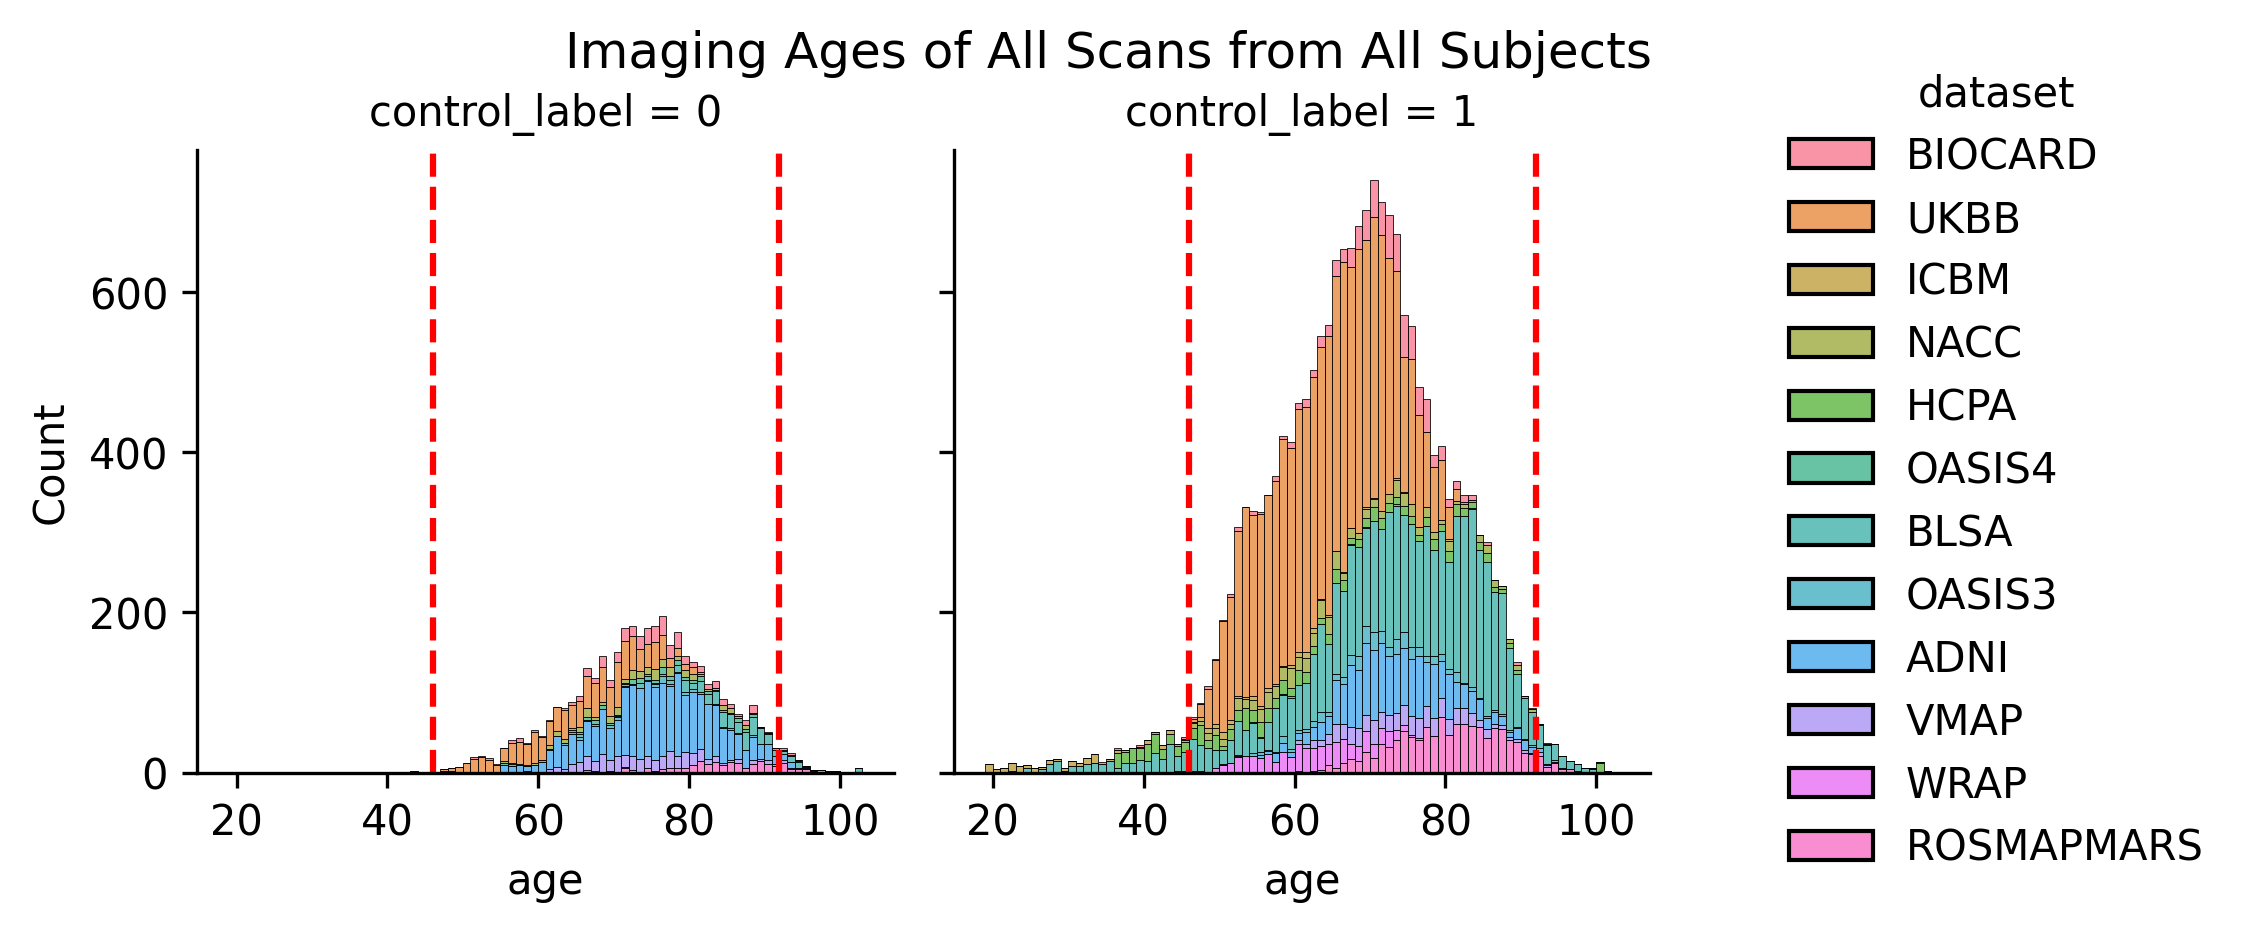
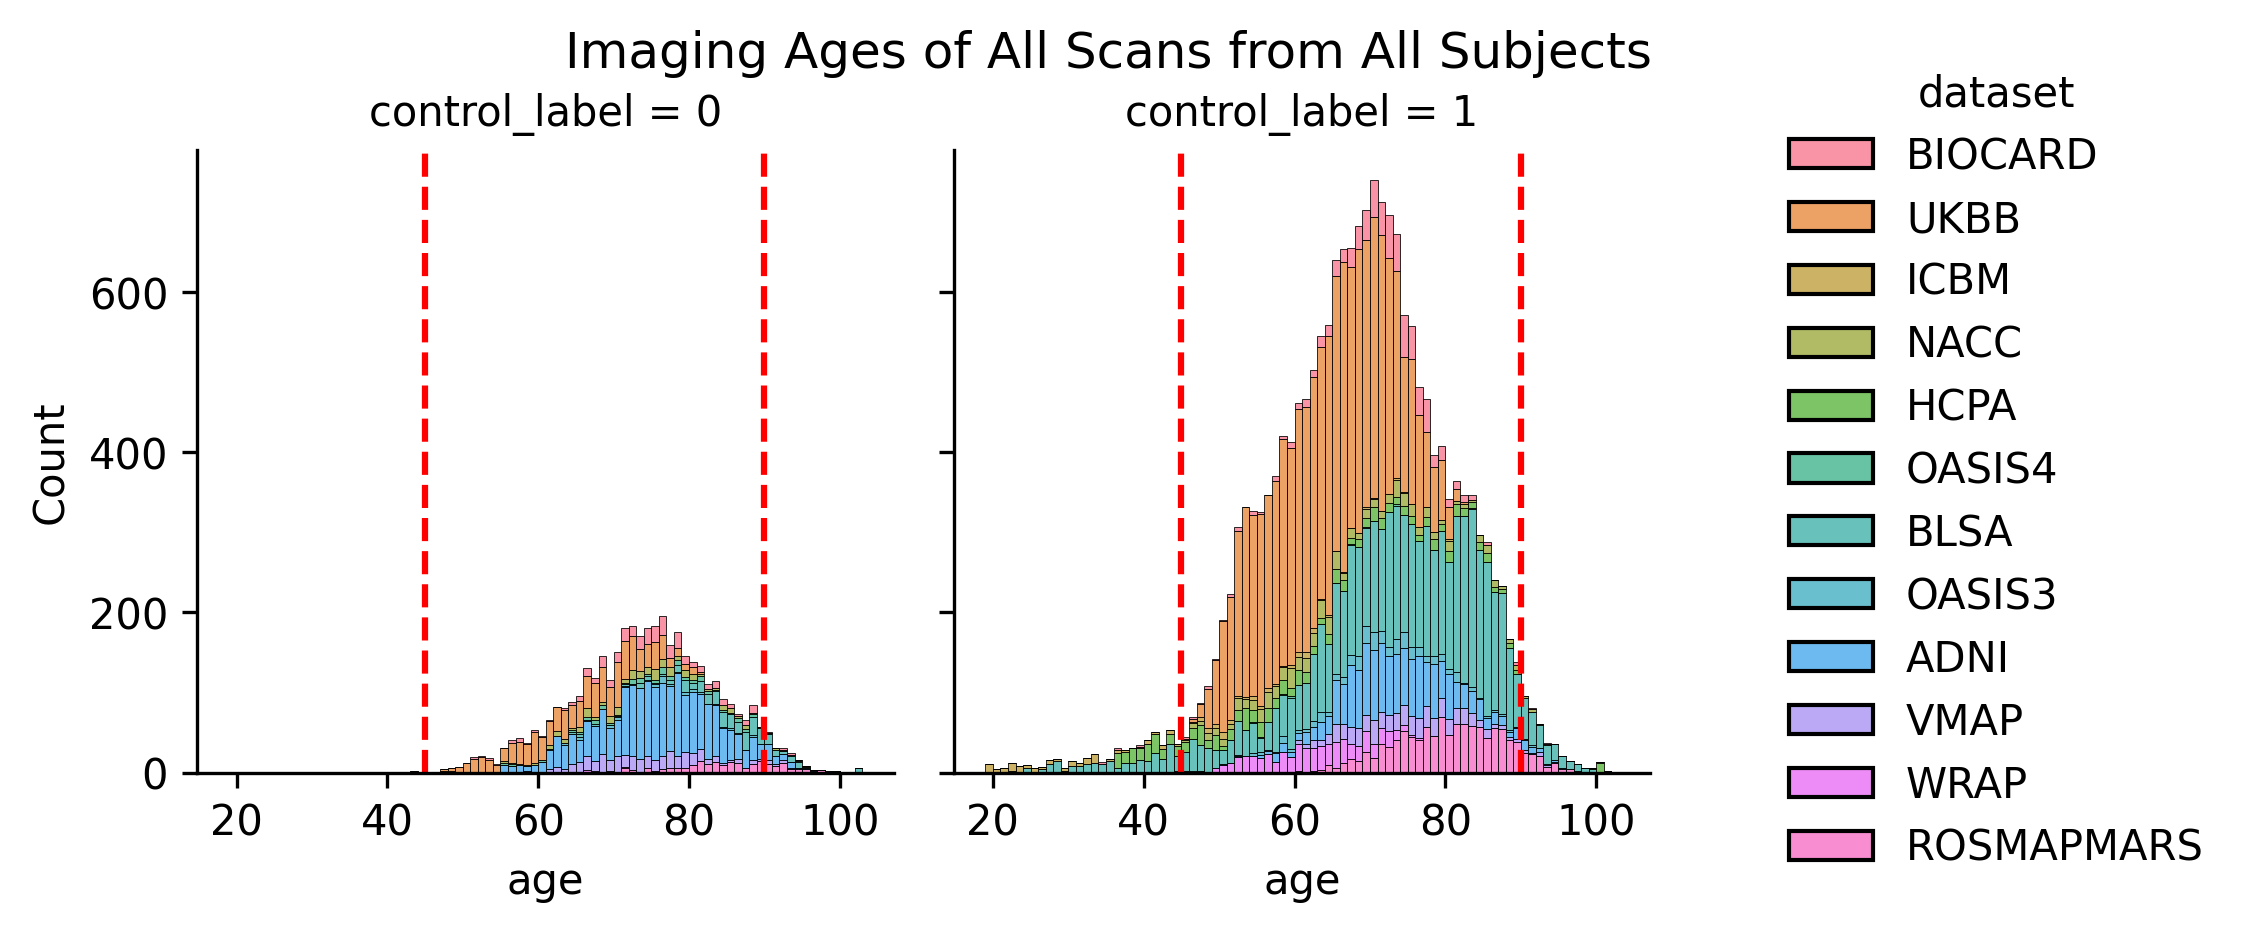
decided age range, performed data splitting (train, test)

Changed region(s): [[0.656, 0.1539, 0.6872, 0.8312], [0.4998, 0.1539, 0.531, 0.8312], [0.1874, 0.1539, 0.2187, 0.8312]]

diff --git a/data/dataset_splitting/scripts/train_test_split.py b/data/dataset_splitting/scripts/train_test_split.py
@@ -1,0 +1,132 @@
+"""
+We've done QA and filtered out unwanted scans from the databank_dti.
+And we've decided the age range we want the model to focus on.
+Now, we split the filtered databank_dti into train and test sets.
+We also split the train set into five folds for cross validation.
+We store the data on the GDPR server.
+
+logic:
+1. We have a pool of scans that have passed QAs
+2. pull subjects for test sets out of the pool
+    - all cognitively impaired subjects will be used for testing
+    - the entire ICBM dataset will be used for testing
+    - For the rest of the datasets, pull out n subjects from each dataset,
+      where n depends on the dataset (whether further analysis is possible). 
+3. the rest of the subjects will be used for training
+4. there must be scan-rescan data available in testing
+5. there must be no overlap subjects between train and test sets
+6. combining the train and test sets will lead to the original #rows
+
+Author: Chenyu Gao
+Date: Dec 7, 2023
+"""
+
+import subprocess
+import pandas as pd
+import numpy as np
+from tqdm import tqdm
+from pathlib import Path
+from braid.utls import summarize_dataset
+
+AGEMIN = 45
+AGEMAX = 90
+SEED = 1997
+
+path_databank_dti = Path('/nfs/masi/gaoc11/GDPR/masi/gaoc11/BRAID/data/databank_dti')  # all data including preprocessing
+path_braid_data = Path('/nfs/masi/gaoc11/GDPR/masi/gaoc11/BRAID/data/braid_dataset')  # only preprocessed FA, MD for training and testing
+
+# Scan data remained after QAs
+df_qa = pd.read_csv('/nfs/masi/gaoc11/GDPR/masi/gaoc11/BRAID/data/quality_assurance/databank_dti_after_pngqa_after_adspqa.csv')
+df_qa = df_qa.loc[df_qa['age'].notnull(), ]
+df_qa['dataset_subject'] = df_qa['dataset'] + '_' + df_qa['subject']
+df_pool = df_qa.copy()
+
+# Assign ICBM and all cognitively impaired subjects to test set
+subjects = df_pool.loc[(df_pool['dataset']=='ICBM')|(df_pool['control_label']==0), 'dataset_subject'].unique()
+print(f'Assigning {subjects.shape[0]} subjects (ICBM and all cognitively impaired) to test set...')
+df_test = df_pool.loc[df_pool['dataset_subject'].isin(subjects), ].copy()
+df_pool.drop(df_pool.loc[df_pool['dataset_subject'].isin(subjects), ].index, inplace=True)
+print(f'Removed these {subjects.shape[0]} subjects from the pool. #Remaining scans: {df_pool.shape[0]}\n')
+
+# Assign n subjects (whose ages fall within the chosen range) from each dataset to test set
+num_subjects_test = {
+    'BIOCARD': 50,
+    'UKBB': 50,
+    'NACC': 50,
+    'HCPA': 50,
+    'OASIS4': 5,
+    'BLSA': 100,  # for scan-rescan experiment
+    'OASIS3': 100,  # for cognitive performance score
+    'ADNI': 300,  # for cognitive performance score
+    'VMAP': 50,
+    'WRAP': 50,
+    'ROSMAPMARS': 50,
+}
+for dataset in num_subjects_test.keys():
+    print(f'Assigning {num_subjects_test[dataset]} subjects from {dataset} to test set...')
+    subjects = df_pool.loc[(df_pool['dataset']==dataset) & (df_pool['age']>=AGEMIN) & (df_pool['age']<=AGEMAX), 'dataset_subject'].unique()
+    np.random.seed(SEED)
+    subjects = np.random.choice(subjects, size=num_subjects_test[dataset], replace=False)
+    df_test = pd.concat([df_test,
+                         df_pool.loc[df_pool['dataset_subject'].isin(subjects), ]], 
+                        ignore_index=True)
+    df_pool.drop(df_pool.loc[df_pool['dataset_subject'].isin(subjects), ].index, inplace=True)
+    print(f'Removed these {subjects.shape[0]} subjects from the pool. #Remaining scans: {df_pool.shape[0]}\n')
+
+# Assign remaining subjects whose ages fall within the chosen range to train set
+subjects = df_pool.loc[(df_pool['age']>=AGEMIN) & (df_pool['age']<=AGEMAX), 'dataset_subject'].unique()
+print(f'Assigning {subjects.shape[0]} subjects to train set...')
+df_train = df_pool.loc[df_pool['dataset_subject'].isin(subjects), ].copy()
+df_pool.drop(df_pool.loc[df_pool['dataset_subject'].isin(subjects), ].index, inplace=True)
+print(f'Removed these {subjects.shape[0]} subjects from the pool. #Remaining scans: {df_pool.shape[0]}\n')
+
+# Assign the rest of the scans (age out of range) to test set, just for fun
+for _,row in df_pool.iterrows():
+    if row['age'] >= AGEMIN and row['age'] <= AGEMAX:
+        raise ValueError('There are still scans whose ages fall within the chosen range.')
+df_test = pd.concat([df_test, df_pool], ignore_index=True)
+
+# Verify there is no information leakage between train and test sets
+for _,row in df_test.iterrows():
+    if row['dataset_subject'] in df_train['dataset_subject'].values:
+        raise ValueError('There is information leakage between train and test sets.')
+
+print(f'Dataset splitting completed. Saving csv files to GDPR...\n')
+df_train.to_csv('/nfs/masi/gaoc11/GDPR/masi/gaoc11/BRAID/data/dataset_splitting/spreadsheet/braid_train.csv', index=False)
+df_test.to_csv('/nfs/masi/gaoc11/GDPR/masi/gaoc11/BRAID/data/dataset_splitting/spreadsheet/braid_test.csv', index=False)
+
+print('\n============ Training Set ============')
+print('------------ Overall ------------')
+summarize_dataset(df_train.copy())
+for dataset in df_train['dataset'].unique():
+    print(f"------------ {dataset} ------------")
+    summarize_dataset(df_train.loc[df_train['dataset'] == dataset, ].copy())
+
+print('\n============ Testing Set ============')
+print('------------ Overall ------------')
+summarize_dataset(df_test.copy())
+for dataset in df_test['dataset'].unique():
+    print(f"------------ {dataset} ------------")
+    summarize_dataset(df_test.loc[df_test['dataset'] == dataset, ].copy())
+
+
+# Data transfer
+print(f'\nTransferring data to {path_braid_data}\n')
+
+df_all = pd.concat([df_train, df_test], ignore_index=True)
+if df_all.shape[0] != df_qa.shape[0]:
+    raise ValueError('The combined dataset does not have the same #rows as the original dataset.')
+
+for _,row in tqdm(df_all.iterrows(), total=df_all.shape[0]):
+    fa = path_databank_dti / row['dataset'] / row['subject'] / row['session'] / f"scan-{row['scan']}" / 'final' / 'fa_skullstrip_MNI152.nii.gz'
+    md = path_databank_dti / row['dataset'] / row['subject'] / row['session'] / f"scan-{row['scan']}" / 'final' / 'md_skullstrip_MNI152.nii.gz'
+    
+    if not (fa.is_file() and md.is_file()):
+        raise ValueError(f'The following files do not exist: {fa}, {md}')
+    
+    fa_dst = path_braid_data / row['dataset'] / row['subject'] / row['session'] / f"scan-{row['scan']}" / 'fa_skullstrip_MNI152.nii.gz'
+    md_dst = path_braid_data / row['dataset'] / row['subject'] / row['session'] / f"scan-{row['scan']}" / 'md_skullstrip_MNI152.nii.gz'
+    
+    subprocess.run(['mkdir', '-p', str(fa_dst.parent)])
+    subprocess.run(['rsync', '-a', str(fa), str(fa_dst)])
+    subprocess.run(['rsync', '-a', str(md), str(md_dst)])

diff --git a/data/dataset_splitting/scripts/summarize_visualize_data_bank.py b/data/dataset_splitting/scripts/summarize_visualize_data_bank.py
@@ -1,14 +1,16 @@
-# Summarize, visualize the distribution of the data in the data bank.
-# 
-# Author: Chenyu Gao
-# Date: Dec 6, 2023
+"""
+Summarize, visualize the distribution of the data in the data bank.
+
+Author: Chenyu Gao
+Date: Dec 6, 2023
+"""
 
 import pandas as pd
 import seaborn as sns
 from braid.utls import summarize_dataset
 
-MIN = 46
-MAX = 92
+MIN = 45
+MAX = 90
 
 df = pd.read_csv('/nfs/masi/gaoc11/GDPR/masi/gaoc11/BRAID/data/quality_assurance/databank_dti_after_pngqa_after_adspqa.csv')
 
